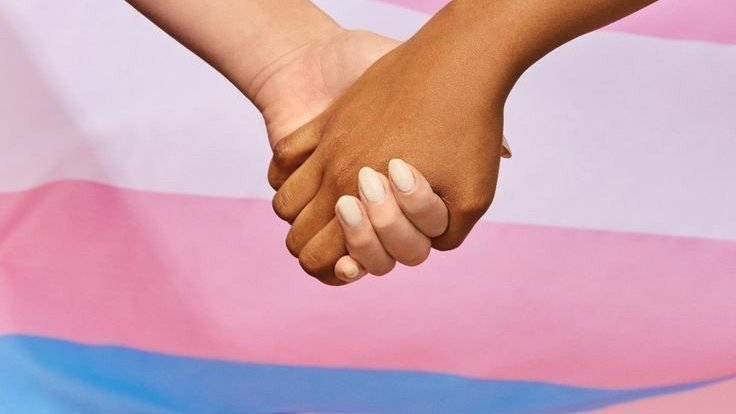
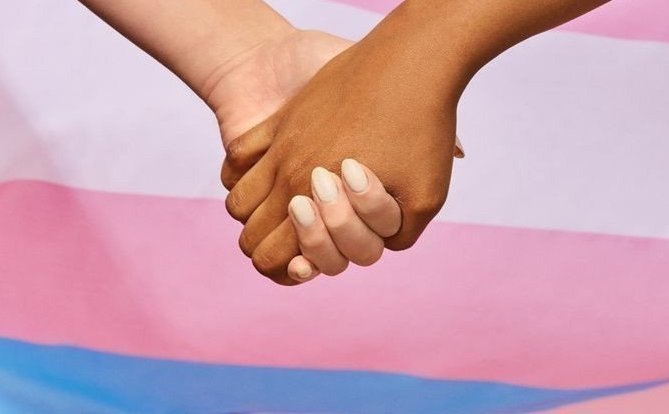
up

diff --git a/index.html b/index.html
@@ -149,7 +149,7 @@
                                 <i class="fa fa-plus fa-3x"></i>
                             </div>
                         </div>
-                        <img src="img/portfolio/download.jpeg" class="img-responsive" alt="">
+                        <img src="img/portfolio/love-concept-represented-by-hands-extended-to-each-other.jpg" class="img-responsive" alt="">
                     </a>
                     <div class="portfolio-caption">
                         <h4>Violência contra a mulher: suporte e atendimento às vítimas na Unicamp</h4>
@@ -186,36 +186,30 @@
                         <div class="row">
                             <div class="col-md-6">
                                 <div class="form-group">
-                                    <a href="https://www.freecodecamp.org/"></a>
-                            <button type="submit" class="btn btn-xl">!!!!Messagaaaaaaaaaaaaaaaaaaaaaae</button>
+                            <button formaction="http://www.planalto.gov.br/ccivil_03/_ato2015-2018/2015/lei/l13104.htm" type="submit" class="btn btn-xl">planalto.gov.br</button>
                             </a> 
                                 </div>
                                 <div class="form-group">
-                                    <a href="https://www.freecodecamp.org/"></a>
-                            <button type="submit" class="btn btn-xl">!!!!Messagaaaaaaaaaaaaaaaaaaaaaae</button>
+                            <button formaction="https://www.politize.com.br/feminismo/" type="submit" class="btn btn-xl">politize.com.br</button>
                             </a> 
                                 </div>
                                 <div class="form-group">
-                                    <a href="https://www.freecodecamp.org/"></a>
-                            <button type="submit" class="btn btn-xl">!!!!Messagaaaaaaaaaaaaaaaaaaaaaae</button>
+                            <button formaction="https://jornal.usp.br/atualidades/projetos-de-lei-desfavoraveis-as-mulheres-sao-geralmente-propostos-por-homens/" type="submit" class="btn btn-xl">jornal.usp.br</button>
                             </a> 
                                 </div>
                             </div>
                             <div class="col-md-6">
                                 <div class="col-md-6">
                                     <div class="form-group">
-                                        <a href="https://www.freecodecamp.org/"></a>
-                                <button type="submit" class="btn btn-xl">!!!!Messagaaaaaaaaaaaaaaaaaaaaaae</button>
-                                </a> 
-                                    </div>
-                                    <div class="form-group">fdesignmododesignmodo
-                                        <a href="https://www.freecodecamp.org/"></a>
-                                <button type="submit" class="btn btn-xl">!!!!Messagaaaaaaaaaaaaaaaaaaaaaae</button>
+                                <button formaction="https://www.prg.unicamp.br/sappe/" type="submit" class="btn btn-xl">prg.unicamp.br</button>
                                 </a> 
                                     </div>
                                     <div class="form-group">
-                                        <a href="https://www.freecodecamp.org/"></a>
-                                <button type="submit" class="btn btn-xl">!!!!Messagaaaaaaaaaaaaaaaaaaaaaae</button>
+                                <button formaction="https://transrespect.org/en/map/trans-murder-monitoring/" type="submit" class="btn btn-xl">transrespect.org</button>
+                                </a> 
+                                    </div>
+                                    <div class="form-group">
+                                <button formaction="https://www.institutomariadapenha.org.br/lei-11340/tipos-de-violencia.html" type="submit" class="btn btn-xl">institutomariadapenha.org.br</button>
                                 </a> 
                                     </div>
                                 </div>
@@ -243,12 +237,6 @@
                         <img src="img/team/2.jpeg" class="img-responsive img-circle" alt="">
                         <h4>UNICAMP</h4>
                         <p class="text-muted">Universidade Estadual de Campinas</p>
-                        <ul class="list-inline social-buttons">
-                            <li><a href="#"><i class="fa fa-facebook"></i></a>
-                            </li>
-                            <li><a href="#"><i class="fa fa-instagram"></i></a>
-                            </li>
-                        </ul>
                     </div>
                 </div>
                 <div class="col-sm-4">
@@ -256,12 +244,6 @@
                         <img src="img/team/1.jpeg" class="img-responsive img-circle" alt="">
                         <h4>ARU</h4>
                         <p class="text-muted">Associação de Republicas da Unicamp</p>
-                        <ul class="list-inline social-buttons">
-                            <li><a href="#"><i class="fa fa-facebook"></i></a>
-                            </li>
-                            <li><a href="#"><i class="fa fa-instagram"></i></a>
-                            </li>
-                        </ul>
                     </div>
                 </div>
                 <div class="col-sm-4">
@@ -269,12 +251,6 @@
                         <img src="img/team/3.png" class="img-responsive img-circle" alt="">
                         <h4>CA</h4>
                         <p class="text-muted">Comissão acolhedora</p>
-                        <ul class="list-inline social-buttons">
-                            <li><a href="#"><i class="fa fa-facebook"></i></a>
-                            </li>
-                            <li><a href="#"><i class="fa fa-instagram"></i></a>
-                            </li>
-                        </ul>
                     </div>
                 </div>
             </div>
